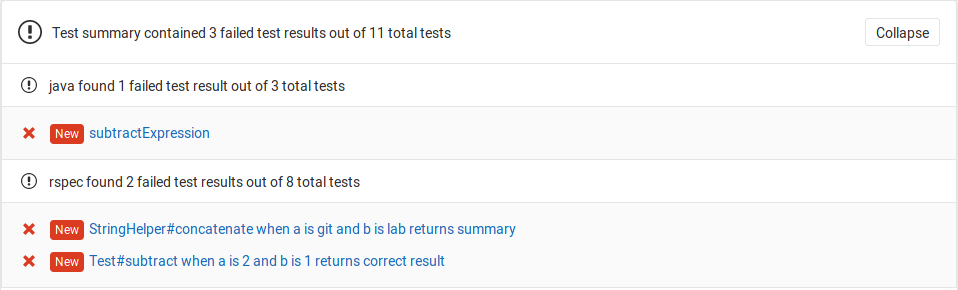
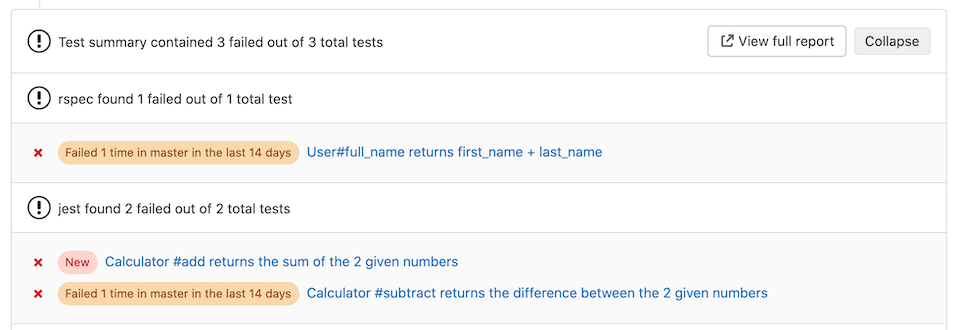
Document Test Failure History feature

Changed region(s): [[0.0, 0.0, 1.0, 1.0]]

diff --git a/doc/ci/unit_test_reports.md b/doc/ci/unit_test_reports.md
@@ -65,6 +65,39 @@ execution time and the error output.
 
 ![Test Reports Widget](img/junit_test_report.png)
 
+### Number of recent failures
+
+> - [Introduced](https://gitlab.com/gitlab-org/gitlab/-/issues/241759) in GitLab 13.7.
+> - It's [deployed behind a feature flag](../user/feature_flags.md), disabled by default.
+> - It's disabled on GitLab.com.
+> - It's not recommended for production use.
+> - To use it in GitLab self-managed instances, ask a GitLab administrator to [enable it](#enable-or-disable-the-number-of-recent-failures). **(CORE ONLY)**
+
+WARNING:
+This feature might not be available to you. Check the **version history** note above for details.
+
+If a test failed in the project's default branch in the last 14 days, a message like
+`Failed {n} time(s) in {default_branch} in the last 14 days` is displayed for that test.
+
+#### Enable or disable the number of recent failures **(CORE ONLY)**
+
+Displaying the number of failures in the last 14 days is under development and not
+ready for production use. It is deployed behind a feature flag that is **disabled by default**.
+[GitLab administrators with access to the GitLab Rails console](../administration/feature_flags.md)
+can enable it.
+
+To enable it:
+
+```ruby
+Feature.enable(:test_failure_history)
+```
+
+To disable it:
+
+```ruby
+Feature.disable(:test_failure_history)
+```
+
 ## How to set it up
 
 To enable the Unit test reports in merge requests, you need to add
